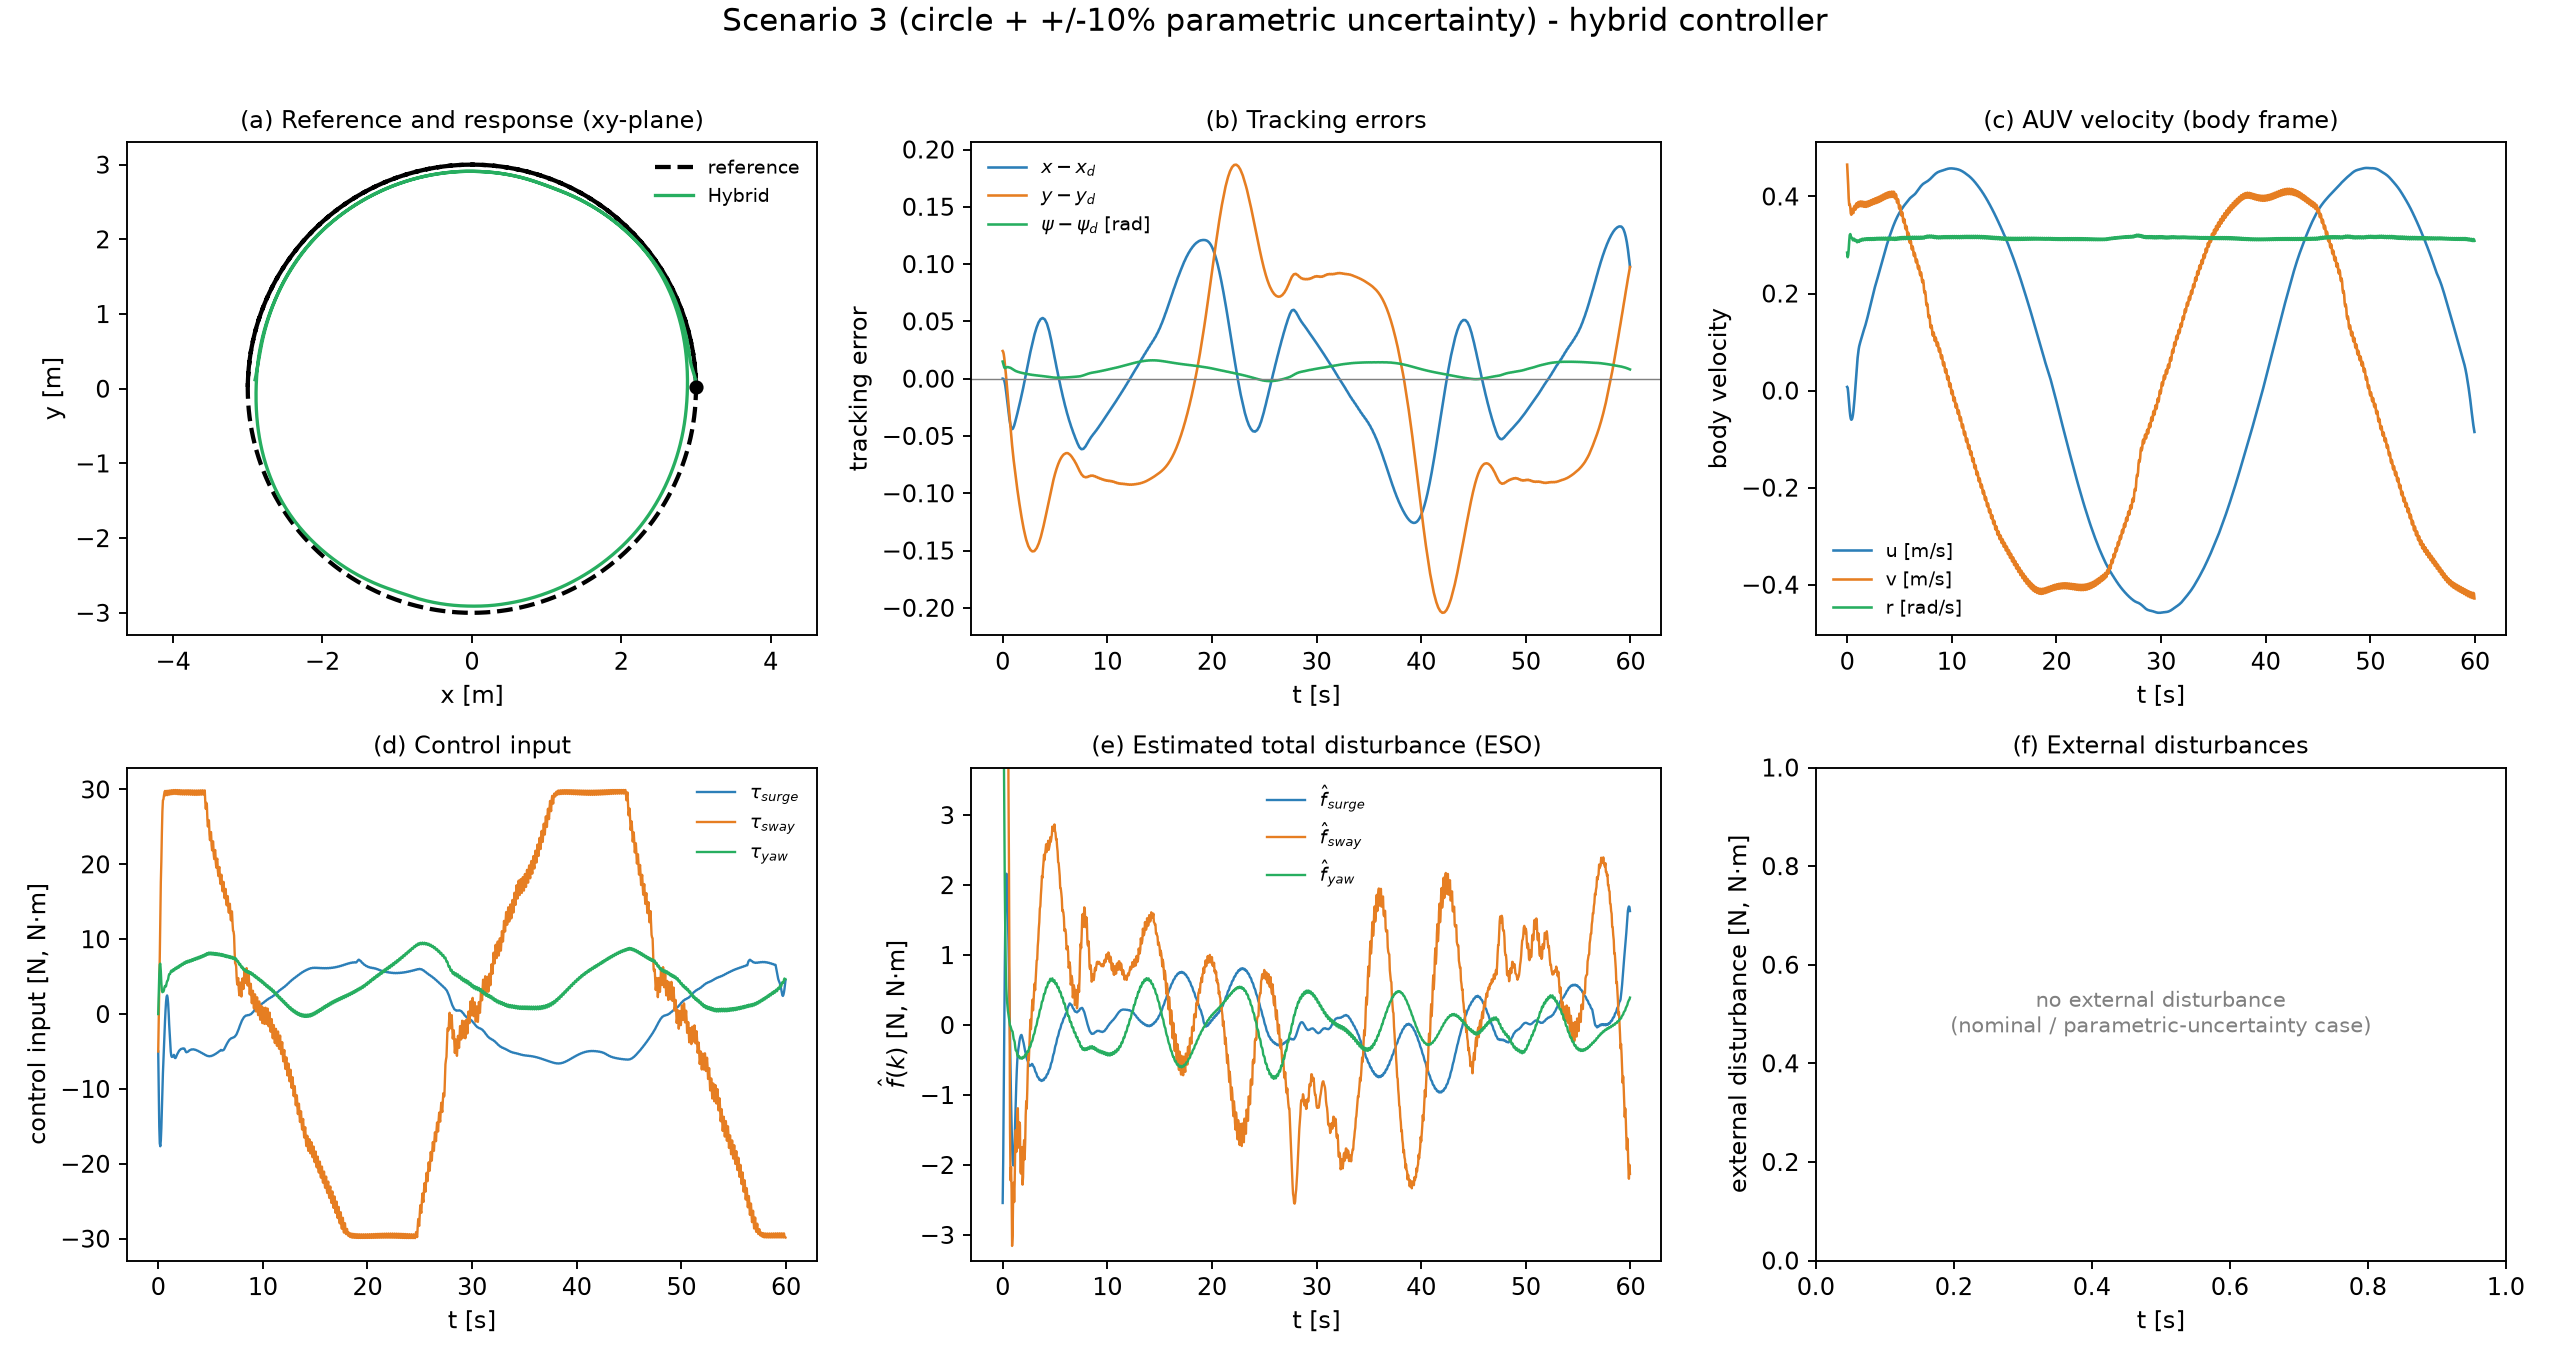
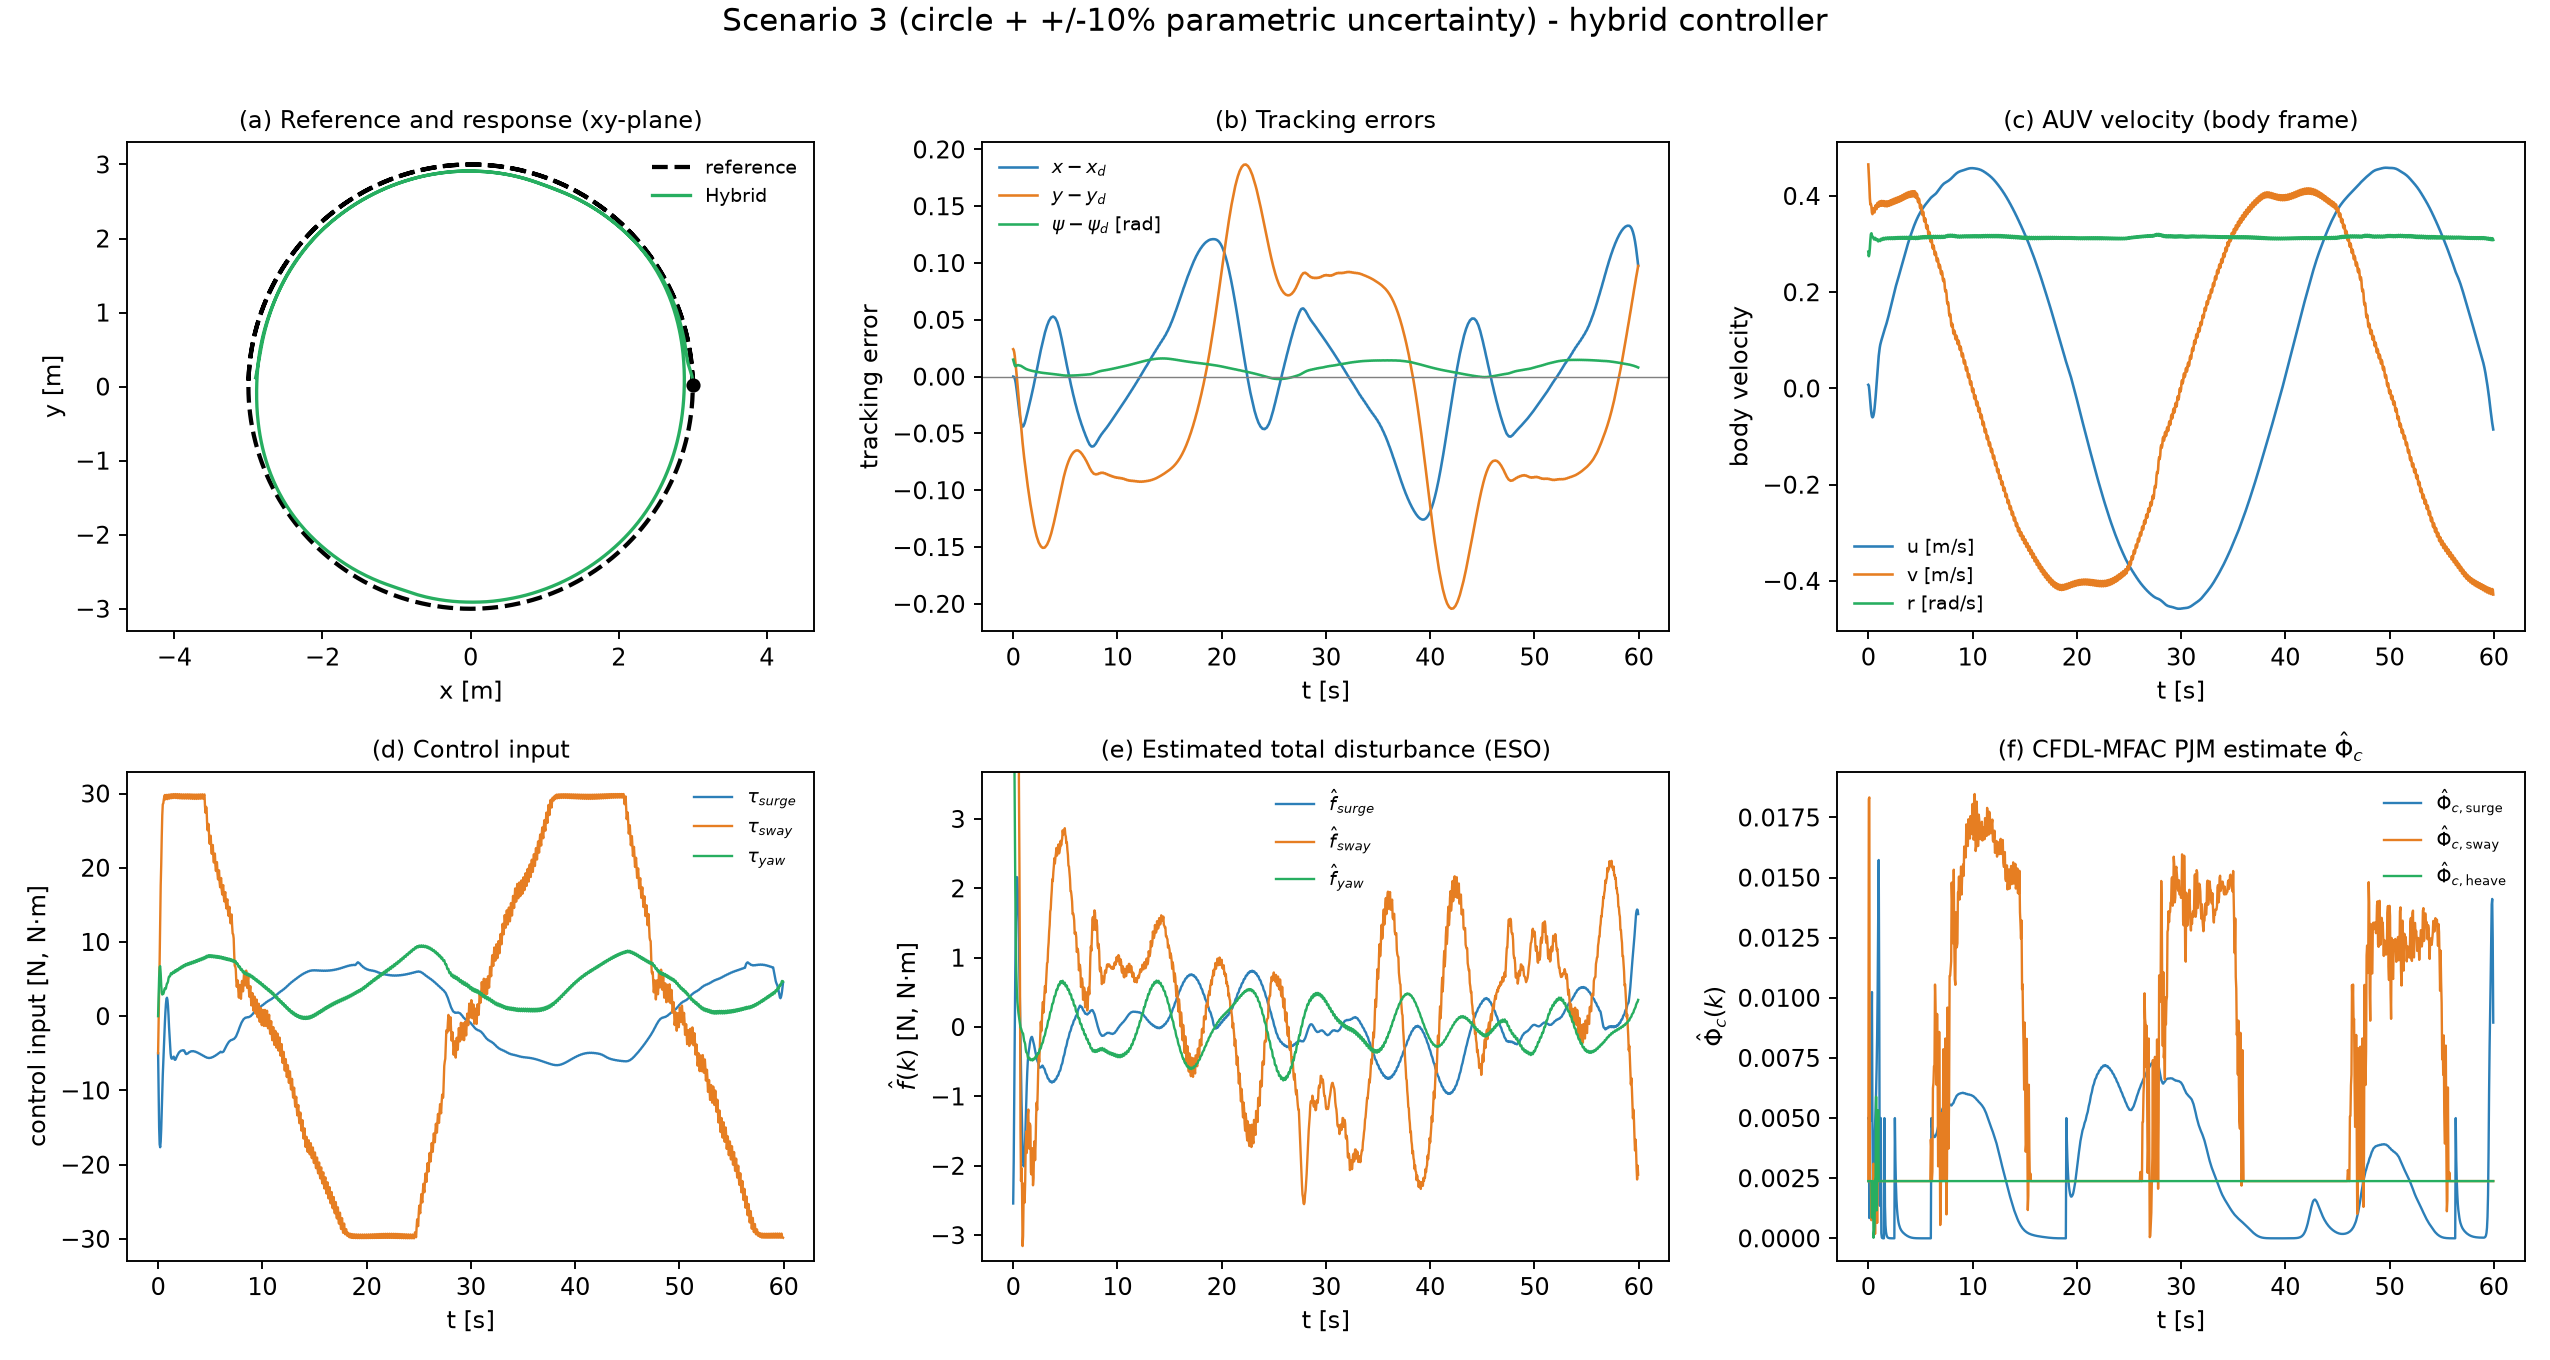
Show CFDL-MFAC PJM estimate Phi_hat_c in panel (f) where no external disturbance
For scenarios with no external force (S1 square, S3 circle) panel (f) now plots
the online CFDL-MFAC pseudo-Jacobian (PJM) estimate Phi_hat_c for surge/sway/
heave instead of an empty axes -- illustrating the model-free adaptation and its
boundedness/sign-definiteness (the BIBO premise). S2 keeps its external
disturbance plot. simulate() records the per-channel pseudo-gradient each step.

Claude-Session: https://claude.ai/code/session_01EqTA97WWzLYUmNUAg6Z7rU

diff --git a/cfdl_mfac_ncp_td3/experiments/scenario_experiment.py b/cfdl_mfac_ncp_td3/experiments/scenario_experiment.py
@@ -84,7 +84,7 @@ def simulate(make_ctrl, trajectory, eta0, nu0, duration=60.0,
         ndob.reset()
     n = int(duration / dt)
 
-    T, ETA, ETAD, NU, TAU, FHAT, DEXT = [], [], [], [], [], [], []
+    T, ETA, ETAD, NU, TAU, FHAT, DEXT, PHI = [], [], [], [], [], [], [], []
     pe, ye, energy = [], [], 0.0
     tau_prev = np.zeros(6)
     for k in range(n):
@@ -101,6 +101,8 @@ def simulate(make_ctrl, trajectory, eta0, nu0, duration=60.0,
             eta_m = eta_m + meas_noise["eta"] * rng.standard_normal(6)
             nu_m = nu_m + meas_noise["nu"] * rng.standard_normal(6)
         tau = ctrl.control(eta_m, nu_m, eta_d, eta_d_dot, dt)
+        if hasattr(ctrl, "mfac"):                        # CFDL-MFAC pseudo-Jacobian (PJM)
+            PHI.append([m.gain for m in ctrl.mfac])
         ta = thr.step(tau, dt)
         energy += float(ta @ ta) * dt
         td = tau_dist_fn(t) if tau_dist_fn is not None else None
@@ -117,6 +119,7 @@ def simulate(make_ctrl, trajectory, eta0, nu0, duration=60.0,
     return {"t": np.array(T), "eta": np.array(ETA), "eta_d": np.array(ETAD),
             "nu": np.array(NU), "tau": np.array(TAU),
             "f_hat": np.array(FHAT) if FHAT else np.zeros((len(T), 6)),
+            "phi": np.array(PHI) if PHI else np.zeros((len(T), 0)),
             "d_ext": np.array(DEXT), "pos_err": pe, "yaw_err": ye,
             "pos_rmse": float(np.sqrt(np.mean(pe ** 2))),
             "yaw_rmse": float(np.sqrt(np.mean(ye ** 2))),
@@ -479,18 +482,27 @@ def hybrid_panels(scenario, fname, title):
     e.set_xlabel("t [s]"); e.set_ylabel(r"$\hat f(k)$ [N, N·m]")
     e.set_title("(e) Estimated total disturbance (ESO)", fontsize=10); e.legend(fontsize=8, frameon=False)
 
-    # (f) external disturbances
+    # (f) external disturbances when present; otherwise the CFDL-MFAC
+    # pseudo-Jacobian (PJM) estimate Phi_hat_c, which shows the online adaptation
+    # of the model-free core (and whose boundedness/sign-definiteness underpins
+    # the BIBO stability of the adaptive trim).
     f = ax[1, 2]
     if np.any(np.abs(r["d_ext"]) > 1e-9):
         for j, i in enumerate(IDX):
             f.plot(t, r["d_ext"][:, i], CL[j], lw=1.0, label=r"$d_{%s}$" % LBL[j])
         f.legend(fontsize=8, frameon=False)
+        f.axhline(0, color="grey", lw=0.6)
+        f.set_xlabel("t [s]"); f.set_ylabel("external disturbance [N, N·m]")
+        f.set_title("(f) External disturbances", fontsize=10)
     else:
-        f.text(0.5, 0.5, "no external disturbance\n(nominal / parametric-uncertainty case)",
-               ha="center", va="center", transform=f.transAxes, fontsize=9, color="grey")
-    f.axhline(0, color="grey", lw=0.6)
-    f.set_xlabel("t [s]"); f.set_ylabel("external disturbance [N, N·m]")
-    f.set_title("(f) External disturbances", fontsize=10)
+        phi = r["phi"]
+        names = ["surge", "sway", "heave"]
+        for j in range(min(phi.shape[1], 3)):
+            f.plot(t, phi[:, j], CL[j % len(CL)], lw=1.0,
+                   label=r"$\hat\Phi_{c,\mathrm{%s}}$" % names[j])
+        f.legend(fontsize=8, frameon=False)
+        f.set_xlabel("t [s]"); f.set_ylabel(r"$\hat\Phi_c(k)$")
+        f.set_title(r"(f) CFDL-MFAC PJM estimate $\hat\Phi_c$", fontsize=10)
 
     fig.tight_layout(rect=(0, 0, 1, 0.98))
     fig.savefig(os.path.join(RESULTS_DIR, fname), dpi=170); plt.close(fig)
